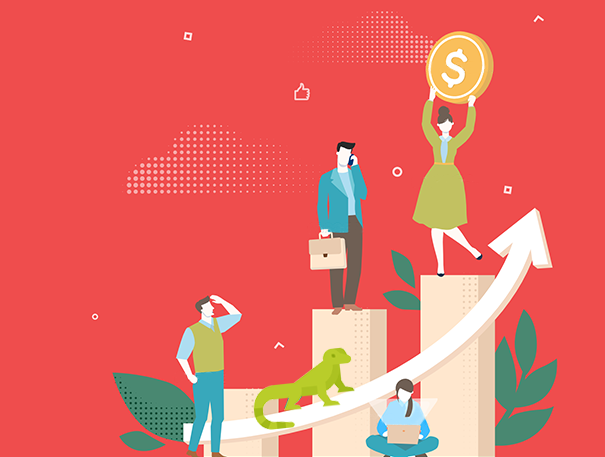
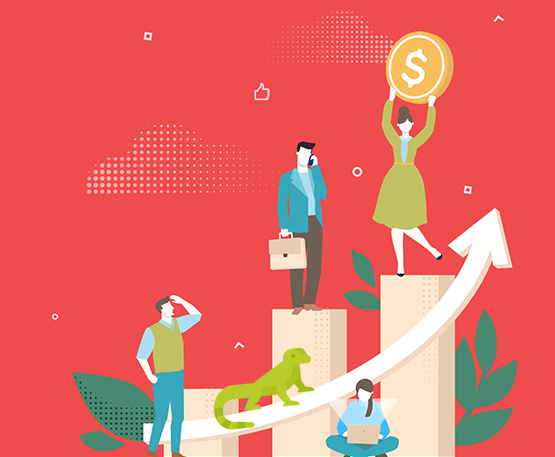
220313 main css 작업 중

diff --git a/src/main/resources/views/main.html b/src/main/resources/views/main.html
@@ -10,7 +10,7 @@
     <div class="mainPage">
         <div id="carouselExampleInterval" class="carousel slide" data-bs-ride="carousel">
             <div class="carousel-inner">
-                <div class="carousel-item active main_banner" data-bs-interval="2000">
+                <div class="carousel-item active main_banner" data-bs-interval="4000">
 					<div class="d-block w-80 event_banner">
 						<div class="banner1">
 							<div>
@@ -26,12 +26,19 @@
 						</div>
 					</div>
                 </div>
-<!--                <div class="carousel-item" data-bs-interval="2000">-->
-<!--                    <img id="event02" src="/static/img/event02.png" class="d-block w-80" alt="">-->
-<!--                </div>-->
-<!--                <div class="carousel-item">-->
-<!--                    <img id="event03" src="/static/img/event03.png" class="d-block w-80" alt="">-->
-<!--                </div>-->
+				<div class="carousel-item main_banner" data-bs-interval="4000">
+					<div class="d-block w-80 event_banner">
+						<div class="banner2">
+							<div>
+								<img src="/static/img/main_banner2.png" alt="첫 구매 이벤트">
+							</div>
+							<div class="banner_text">
+								<p>WELCOME EVENT</p>
+								<h1><span>첫 거래시</span><br>5000원 혜택</h1>
+							</div>
+						</div>
+					</div>
+				</div>
             </div>
             <button id="btnTop10" class="carousel-control-prev" type="button" data-bs-target="#carouselExampleInterval"
                     data-bs-slide="prev">
@@ -143,11 +150,11 @@
 				</div>
 			</div>
 
-			<a class="theList" href="auction/list">
-				<div class="d-grid gap-2">
-					<button id="theList1" type="button" class="btn btn-outline-secondary">상품 보러 가기 click!</button>
-				</div>
-			</a>
+			<div class="sub_banner sb1">
+				<a href="auction/list">
+					<img src="/static/img/sub_banner1.png" alt="도마뱀 게시판 이동">
+				</a>
+			</div>
 
 			<div class="home_products">
 				<div class="product_title topProductTop10">
@@ -246,11 +253,11 @@
 				</div>
 			</div>
 
-			<a class="theList" href="auction/list">
-				<div class="d-grid gap-2">
-					<button id="theList2" type="button" class="btn btn-outline-secondary">상품 보러 가기 click!</button>
-				</div>
-			</a>
+			<div class="sub_banner sb2">
+				<a href="supplies/list/1">
+					<img src="/static/img/sub_banner2.png" alt="용품-먹이 게시판 이동">
+				</a>
+			</div>
 
 			<div class="home_products">
 				<div class="product_title topProductTop10">
@@ -349,20 +356,20 @@
 				</div>
 			</div>
 
-			<a class="theList" href="auction/list">
-				<div class="d-grid gap-2">
-					<button id="theList3" type="button" class="btn btn-outline-secondary">상품 보러 가기 click!</button>
-				</div>
-			</a>
+			<div class="sub_banner sb3">
+				<a href="supplies/list/3">
+					<img src="/static/img/sub_banner3.png" alt="용품-사육장 게시판 이동">
+				</a>
+			</div>
 
-			<span>
-				<div class="imgKakao1"><span><label class="mouseOver1">도마뱀 리스트</label></span></div>
-				<div class="imgKakao2"><span><label class="mouseOver2">용품 리스트</label></span></div>
-				<div class="imgKakao3"><span><label class="mouseOver3">리뷰 리스트</label></span></div>
-				<div class="imgKakao4"><span><label class="mouseOver4">커뮤니티 리스트</label></span></div>
-				<div class="imgKakao5"><span><label class="mouseOver5">고객센터</label></span></div>
-			</span>
-			<div id="imgHref"></div>
+<!--			<span>-->
+<!--				<div class="imgKakao1"><span><label class="mouseOver1">도마뱀 리스트</label></span></div>-->
+<!--				<div class="imgKakao2"><span><label class="mouseOver2">용품 리스트</label></span></div>-->
+<!--				<div class="imgKakao3"><span><label class="mouseOver3">리뷰 리스트</label></span></div>-->
+<!--				<div class="imgKakao4"><span><label class="mouseOver4">커뮤니티 리스트</label></span></div>-->
+<!--				<div class="imgKakao5"><span><label class="mouseOver5">고객센터</label></span></div>-->
+<!--			</span>-->
+<!--			<div id="imgHref"></div>-->
         </div>
     </div>
 </th:block>

diff --git a/src/main/resources/static/css/main.css b/src/main/resources/static/css/main.css
@@ -68,6 +68,10 @@
     background-color: #ddffe6;
 }
 
+.mainPage .main_banner:nth-child(2) {
+    background-color: #ef4d4d;
+}
+
 .mainPage .main_banner .event_banner {
     width: var(--width-max);
     height: 100%;
@@ -82,12 +86,17 @@
 
 .mainPage .main_banner .event_banner .banner1 div img:nth-child(1) {
     width: 500px;
+    left: -50px;
 }
 
 .mainPage .main_banner .event_banner .banner1 div img:nth-child(2) {
     width: 150px;
-    left: 220px;
+    left: 175px;
     top: 180px;
+}
+
+.mainPage .main_banner .event_banner .banner2 div img:nth-child(1) {
+    width: 450px;
 }
 
 .mainPage .main_banner .event_banner .banner_text {
@@ -97,26 +106,38 @@
 }
 
 .mainPage .main_banner .event_banner .banner_text h1 {
-    color: #4b985f;
     font-family: 'GmarketSansBold';
-    font-size: 3.5rem;
+    font-size: 3.7rem;
     text-align: right;
     margin: 0;
 }
 
 .mainPage .main_banner .event_banner .banner_text p {
-    color: #4b985f;
     font-family: 'S-CoreDream-3Light';
     text-align: right;
     margin: 0;
 }
 
+.mainPage .main_banner .event_banner .banner1 .banner_text {
+    color: #4b985f;
+}
+
+.mainPage .main_banner .event_banner .banner2 .banner_text {
+    color: #fff;
+}
+
+.mainPage .main_banner .event_banner .banner2 .banner_text span {
+    color: #ffb808;
+    font-family: 'GmarketSansBold';
+}
+
 .mainPage .main_banner .event_banner .banner_text p:nth-child(1) {
+    font-family: 'S-CoreDream-6Bold';
     font-size: 1.3rem;
-    font-weight: bold;
 }
 
 .mainPage .main_banner .event_banner .banner_text .banner_text_detail {
+    color: #557e5f;
     line-height: 1.7rem;
     padding-top: 2rem;
 }
@@ -132,6 +153,17 @@
     flex-direction: column;
     margin: 0 auto 1rem;
     padding: 0;
+}
+
+.product_title  h2 {
+    font-size: 1.5rem;
+    font-weight: 700;
+    margin: 0;
+}
+
+.product_title p {
+    font-size: 0.95rem;
+    opacity: 0.6;
 }
 
 .product {
@@ -197,8 +229,36 @@
     line-height: 0.8rem;
 }
 
+.sub_banner {
+    width: 100%;
+    height: 300px;
+    margin: 5rem 0;
+}
 
+.sb1 {
+    background-color: #4d7870;
+}
 
+.sb2 {
+    background-color: #ffa443;
+}
+
+.sb3 {
+    background-color: #000;
+}
+
+.sub_banner a {
+    width: 100%;
+    height: 100%;
+    display: flex;
+    align-items: center;
+    justify-content: center;
+}
+
+.sub_banner a img {
+    width: 930px;
+    height: fit-content;
+}
 
 
 

diff --git a/src/main/resources/static/css/common.css b/src/main/resources/static/css/common.css
@@ -12,6 +12,13 @@
     font-style: normal;
 }
 
+@font-face {
+    font-family: 'S-CoreDream-6Bold';
+    src: url('https://cdn.jsdelivr.net/gh/projectnoonnu/noonfonts_six@1.2/S-CoreDream-6Bold.woff') format('woff');
+    font-weight: normal;
+    font-style: normal;
+}
+
 :root {
     --background-default : #ffffff;
     --border-color-default: #eaeaea;

diff --git a/src/main/java/com/portfolio/lagarto/MainController.java b/src/main/java/com/portfolio/lagarto/MainController.java
@@ -1,7 +1,10 @@
 package com.portfolio.lagarto;
 
+import com.portfolio.lagarto.auction.AuctionService;
+import com.portfolio.lagarto.model.AuctionVo;
 import com.portfolio.lagarto.model.UserEntity;
 import com.portfolio.lagarto.recaptcha.VerifyRecaptcha;
+import com.portfolio.lagarto.supplies.SuppliesService;
 import com.portfolio.lagarto.user.UserService;
 import org.springframework.beans.factory.annotation.Autowired;
 import org.springframework.stereotype.Controller;
@@ -13,6 +16,11 @@ import javax.servlet.http.HttpServletRequest;
 @Controller
 @RequestMapping
 public class MainController {
+    @Autowired
+    private AuctionService auctionService;
+
+    @Autowired
+    private SuppliesService suppliesService;
 
     @GetMapping("/")
     public String gomain(){
@@ -20,7 +28,9 @@ public class MainController {
     }
 
     @GetMapping("main")
-    public void main() {};
+    public void main(Model model, AuctionVo auctionVo) {
+        model.addAttribute("auctionList", auctionService.selAuctionListAll(auctionVo));
+    }
 
     @ResponseBody
     @PostMapping("/valid-recaptcha")
